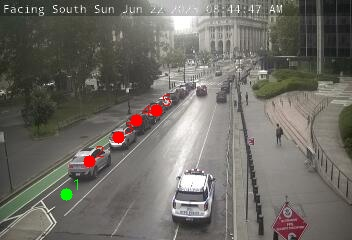
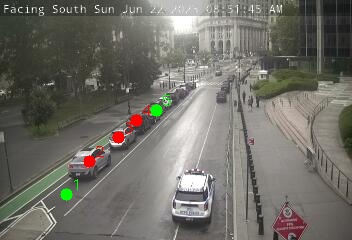
🚀 Auto-update at 2025-06-22T08:51:51.835875

diff --git a/index.html b/index.html
@@ -17,7 +17,7 @@
             <meta name="viewport" content="width=device-width,
                 initial-scale=1.0, maximum-scale=1.0, user-scalable=no" />
             <style>
-                #map_aa39bfd6224bdff8ff5511010f75d4b6 {
+                #map_8a36c5cfe758ebbfed87f9ae44ad969a {
                     position: relative;
                     width: 100.0%;
                     height: 100.0%;
@@ -54,14 +54,14 @@
 <body>
     
     
-            <div class="folium-map" id="map_aa39bfd6224bdff8ff5511010f75d4b6" ></div>
+            <div class="folium-map" id="map_8a36c5cfe758ebbfed87f9ae44ad969a" ></div>
         
 </body>
 <script>
     
     
-            var map_aa39bfd6224bdff8ff5511010f75d4b6 = L.map(
-                "map_aa39bfd6224bdff8ff5511010f75d4b6",
+            var map_8a36c5cfe758ebbfed87f9ae44ad969a = L.map(
+                "map_8a36c5cfe758ebbfed87f9ae44ad969a",
                 {
                     center: [40.71381222599225, -73.99646615844584],
                     crs: L.CRS.EPSG3857,
@@ -78,7 +78,7 @@
 
         
     
-            var tile_layer_c58c77d679bddbea0c6bbefdae7338fa = L.tileLayer(
+            var tile_layer_f72e033af5b961751c84edf02ed4f08a = L.tileLayer(
                 "https://{s}.basemaps.cartocdn.com/light_all/{z}/{x}/{y}{r}.png",
                 {
   "minZoom": 0,
@@ -95,17 +95,17 @@
             );
         
     
-            tile_layer_c58c77d679bddbea0c6bbefdae7338fa.addTo(map_aa39bfd6224bdff8ff5511010f75d4b6);
+            tile_layer_f72e033af5b961751c84edf02ed4f08a.addTo(map_8a36c5cfe758ebbfed87f9ae44ad969a);
         
     
-            var marker_00f1492c618f677b6167ac2c63ebe053 = L.marker(
+            var marker_dfc4d13918ac5cf8a006c910121473b2 = L.marker(
                 [40.715157, -74.00213],
                 {
 }
-            ).addTo(map_aa39bfd6224bdff8ff5511010f75d4b6);
+            ).addTo(map_8a36c5cfe758ebbfed87f9ae44ad969a);
         
     
-            var icon_2b89a84b1fa237d7951ce1f052b9a332 = L.AwesomeMarkers.icon(
+            var icon_68ab7a1dbc19c77a2d5a6e97e96a65d5 = L.AwesomeMarkers.icon(
                 {
   "markerColor": "red",
   "iconColor": "white",
@@ -116,34 +116,34 @@
             );
         
     
-        var popup_ff970004877f374942da932c370b66bf = L.popup({
+        var popup_a914324c5a928758c0046a8c22b340fa = L.popup({
   "maxWidth": 320,
 });
 
         
             
-                var html_8401b237b2d4b51ac5325b8f401c2632 = $(`<div id="html_8401b237b2d4b51ac5325b8f401c2632" style="width: 100.0%; height: 100.0%;">     <strong>Worth St @ Centre St</strong><br>     0 Open / 3 Spots<br>     <img src='annotated_output/07b8616e-373e-4ec9-89cc-11cad7d59fcb.jpg' width="300px">     </div>`)[0];
-                popup_ff970004877f374942da932c370b66bf.setContent(html_8401b237b2d4b51ac5325b8f401c2632);
+                var html_011282508e5567e005fadf550b0d6d68 = $(`<div id="html_011282508e5567e005fadf550b0d6d68" style="width: 100.0%; height: 100.0%;">     <strong>Worth St @ Centre St</strong><br>     0 Open / 3 Spots<br>     <img src='annotated_output/07b8616e-373e-4ec9-89cc-11cad7d59fcb.jpg' width="300px">     </div>`)[0];
+                popup_a914324c5a928758c0046a8c22b340fa.setContent(html_011282508e5567e005fadf550b0d6d68);
             
         
 
-        marker_00f1492c618f677b6167ac2c63ebe053.bindPopup(popup_ff970004877f374942da932c370b66bf)
+        marker_dfc4d13918ac5cf8a006c910121473b2.bindPopup(popup_a914324c5a928758c0046a8c22b340fa)
         ;
 
         
     
     
-                marker_00f1492c618f677b6167ac2c63ebe053.setIcon(icon_2b89a84b1fa237d7951ce1f052b9a332);
+                marker_dfc4d13918ac5cf8a006c910121473b2.setIcon(icon_68ab7a1dbc19c77a2d5a6e97e96a65d5);
             
     
-            var marker_4e7e35ece0101adf0959e3de82b8cb8c = L.marker(
+            var marker_e3879eec56036235dcdf946388ab68f9 = L.marker(
                 [40.715579, -74.003036],
                 {
 }
-            ).addTo(map_aa39bfd6224bdff8ff5511010f75d4b6);
+            ).addTo(map_8a36c5cfe758ebbfed87f9ae44ad969a);
         
     
-            var icon_f6e9d7718b302843c9d525c3f4d6cc9c = L.AwesomeMarkers.icon(
+            var icon_efbf9510024dbc79f4029362fc1d26eb = L.AwesomeMarkers.icon(
                 {
   "markerColor": "green",
   "iconColor": "white",
@@ -154,34 +154,34 @@
             );
         
     
-        var popup_0fc7849faec4cf7cc8b5ac94120193bf = L.popup({
+        var popup_f0c5106649c03372b6e76014acc6eab4 = L.popup({
   "maxWidth": 320,
 });
 
         
             
-                var html_0fdf6829a9c898608b1bfde4dcacfca7 = $(`<div id="html_0fdf6829a9c898608b1bfde4dcacfca7" style="width: 100.0%; height: 100.0%;">     <strong>Worth Street @ Lafayette Street</strong><br>     1 Open / 5 Spots<br>     <img src='annotated_output/ebec9de9-3f56-477a-a413-2e0a09b2b6ba.jpg' width="300px">     </div>`)[0];
-                popup_0fc7849faec4cf7cc8b5ac94120193bf.setContent(html_0fdf6829a9c898608b1bfde4dcacfca7);
+                var html_54787263909770473b94d4d522ac1b67 = $(`<div id="html_54787263909770473b94d4d522ac1b67" style="width: 100.0%; height: 100.0%;">     <strong>Worth Street @ Lafayette Street</strong><br>     2 Open / 5 Spots<br>     <img src='annotated_output/ebec9de9-3f56-477a-a413-2e0a09b2b6ba.jpg' width="300px">     </div>`)[0];
+                popup_f0c5106649c03372b6e76014acc6eab4.setContent(html_54787263909770473b94d4d522ac1b67);
             
         
 
-        marker_4e7e35ece0101adf0959e3de82b8cb8c.bindPopup(popup_0fc7849faec4cf7cc8b5ac94120193bf)
+        marker_e3879eec56036235dcdf946388ab68f9.bindPopup(popup_f0c5106649c03372b6e76014acc6eab4)
         ;
 
         
     
     
-                marker_4e7e35ece0101adf0959e3de82b8cb8c.setIcon(icon_f6e9d7718b302843c9d525c3f4d6cc9c);
+                marker_e3879eec56036235dcdf946388ab68f9.setIcon(icon_efbf9510024dbc79f4029362fc1d26eb);
             
     
-            var marker_c753b0b69b9b72bf432d8d02dc427f57 = L.marker(
+            var marker_d44a8bf2ef390a228bd1140545a0017c = L.marker(
                 [40.709853, -73.991746],
                 {
 }
-            ).addTo(map_aa39bfd6224bdff8ff5511010f75d4b6);
+            ).addTo(map_8a36c5cfe758ebbfed87f9ae44ad969a);
         
     
-            var icon_e8043b43e4e384595126eadc10b2b9b5 = L.AwesomeMarkers.icon(
+            var icon_5a18224827c8fa282d0c28ca622cbd9c = L.AwesomeMarkers.icon(
                 {
   "markerColor": "red",
   "iconColor": "white",
@@ -192,110 +192,34 @@
             );
         
     
-        var popup_78f9074e292e9b8ee196433315fb6506 = L.popup({
+        var popup_320f30c475ec4e6e6ff482c49165a900 = L.popup({
   "maxWidth": 320,
 });
 
         
             
-                var html_63b244a38d48c0a53fae5d879d5e5501 = $(`<div id="html_63b244a38d48c0a53fae5d879d5e5501" style="width: 100.0%; height: 100.0%;">     <strong>South Street @ Pike Street</strong><br>     0 Open / 3 Spots<br>     <img src='annotated_output/547cd268-58f9-4a84-a235-dbaa0432d79a.jpg' width="300px">     </div>`)[0];
-                popup_78f9074e292e9b8ee196433315fb6506.setContent(html_63b244a38d48c0a53fae5d879d5e5501);
+                var html_24aca3c853c259dee945e7df15bd3cae = $(`<div id="html_24aca3c853c259dee945e7df15bd3cae" style="width: 100.0%; height: 100.0%;">     <strong>South Street @ Pike Street</strong><br>     0 Open / 3 Spots<br>     <img src='annotated_output/547cd268-58f9-4a84-a235-dbaa0432d79a.jpg' width="300px">     </div>`)[0];
+                popup_320f30c475ec4e6e6ff482c49165a900.setContent(html_24aca3c853c259dee945e7df15bd3cae);
             
         
 
-        marker_c753b0b69b9b72bf432d8d02dc427f57.bindPopup(popup_78f9074e292e9b8ee196433315fb6506)
+        marker_d44a8bf2ef390a228bd1140545a0017c.bindPopup(popup_320f30c475ec4e6e6ff482c49165a900)
         ;
 
         
     
     
-                marker_c753b0b69b9b72bf432d8d02dc427f57.setIcon(icon_e8043b43e4e384595126eadc10b2b9b5);
+                marker_d44a8bf2ef390a228bd1140545a0017c.setIcon(icon_5a18224827c8fa282d0c28ca622cbd9c);
             
     
-            var marker_95d4b459ab54282a12137e6d5f3e81da = L.marker(
+            var marker_d72cc2f860e3437f94c6f2556d994fc2 = L.marker(
                 [40.716723, -73.989158],
                 {
 }
-            ).addTo(map_aa39bfd6224bdff8ff5511010f75d4b6);
+            ).addTo(map_8a36c5cfe758ebbfed87f9ae44ad969a);
         
     
-            var icon_9d74fa49a4112ff796a8a2e1cfe31cab = L.AwesomeMarkers.icon(
-                {
-  "markerColor": "red",
-  "iconColor": "white",
-  "icon": "camera",
-  "prefix": "fa",
-  "extraClasses": "fa-rotate-0",
-}
-            );
-        
-    
-        var popup_47bda005a6f90a83d1b42eb79fe4a1d1 = L.popup({
-  "maxWidth": 320,
-});
-
-        
-            
-                var html_e2df09a1cfdbd98b491e626bbbf2a72f = $(`<div id="html_e2df09a1cfdbd98b491e626bbbf2a72f" style="width: 100.0%; height: 100.0%;">     <strong>Grand St @ Essex St</strong><br>     0 Open / 2 Spots<br>     <img src='annotated_output/6fc602cf-72c5-40cc-9a42-9a844de7bc1a.jpg' width="300px">     </div>`)[0];
-                popup_47bda005a6f90a83d1b42eb79fe4a1d1.setContent(html_e2df09a1cfdbd98b491e626bbbf2a72f);
-            
-        
-
-        marker_95d4b459ab54282a12137e6d5f3e81da.bindPopup(popup_47bda005a6f90a83d1b42eb79fe4a1d1)
-        ;
-
-        
-    
-    
-                marker_95d4b459ab54282a12137e6d5f3e81da.setIcon(icon_9d74fa49a4112ff796a8a2e1cfe31cab);
-            
-    
-            var marker_c8c9c1372f623f344ada7b01aecad9cb = L.marker(
-                [40.7104751559999, -74.0002155303955],
-                {
-}
-            ).addTo(map_aa39bfd6224bdff8ff5511010f75d4b6);
-        
-    
-            var icon_25f3ccd91fc58f4e31ead7f002471993 = L.AwesomeMarkers.icon(
-                {
-  "markerColor": "red",
-  "iconColor": "white",
-  "icon": "camera",
-  "prefix": "fa",
-  "extraClasses": "fa-rotate-0",
-}
-            );
-        
-    
-        var popup_d6b06a8e692dd732a36d032efb8b299e = L.popup({
-  "maxWidth": 320,
-});
-
-        
-            
-                var html_40533574493dbb44ae5bc2914469ce7f = $(`<div id="html_40533574493dbb44ae5bc2914469ce7f" style="width: 100.0%; height: 100.0%;">     <strong>Pearl Street @ St. James Pl</strong><br>     0 Open / 7 Spots<br>     <img src='annotated_output/7ae8f58a-84e9-4c9f-9e90-daa2dc548f20.jpg' width="300px">     </div>`)[0];
-                popup_d6b06a8e692dd732a36d032efb8b299e.setContent(html_40533574493dbb44ae5bc2914469ce7f);
-            
-        
-
-        marker_c8c9c1372f623f344ada7b01aecad9cb.bindPopup(popup_d6b06a8e692dd732a36d032efb8b299e)
-        ;
-
-        
-    
-    
-                marker_c8c9c1372f623f344ada7b01aecad9cb.setIcon(icon_25f3ccd91fc58f4e31ead7f002471993);
-            
-    
-            var marker_2217322736faf723d740041187e05d3b = L.marker(
-                [40.7150861999536, -73.9925114202795],
-                {
-}
-            ).addTo(map_aa39bfd6224bdff8ff5511010f75d4b6);
-        
-    
-            var icon_2d704dd93497bf889ed284649ab96b6a = L.AwesomeMarkers.icon(
+            var icon_0eb77dec5b773ba4072ad225dbf27397 = L.AwesomeMarkers.icon(
                 {
   "markerColor": "green",
   "iconColor": "white",
@@ -306,43 +230,100 @@
             );
         
     
-        var popup_ab39c283cc8a0583c4e719b39eb39ad8 = L.popup({
+        var popup_f5b2ce20d7af264205a3bb1ad0e8ceb9 = L.popup({
   "maxWidth": 320,
 });
 
         
             
-                var html_52f8a9742ef077c7201b87ca0086acc5 = $(`<div id="html_52f8a9742ef077c7201b87ca0086acc5" style="width: 100.0%; height: 100.0%;">     <strong>Canal Street @ Allen Street</strong><br>     1 Open / 3 Spots<br>     <img src='annotated_output/ed12f2da-9f65-44f0-a162-123c412716c6.jpg' width="300px">     </div>`)[0];
-                popup_ab39c283cc8a0583c4e719b39eb39ad8.setContent(html_52f8a9742ef077c7201b87ca0086acc5);
+                var html_ad2b156bba1fb9b74df95c1090174284 = $(`<div id="html_ad2b156bba1fb9b74df95c1090174284" style="width: 100.0%; height: 100.0%;">     <strong>Grand St @ Essex St</strong><br>     2 Open / 2 Spots<br>     <img src='annotated_output/6fc602cf-72c5-40cc-9a42-9a844de7bc1a.jpg' width="300px">     </div>`)[0];
+                popup_f5b2ce20d7af264205a3bb1ad0e8ceb9.setContent(html_ad2b156bba1fb9b74df95c1090174284);
             
         
 
-        marker_2217322736faf723d740041187e05d3b.bindPopup(popup_ab39c283cc8a0583c4e719b39eb39ad8)
+        marker_d72cc2f860e3437f94c6f2556d994fc2.bindPopup(popup_f5b2ce20d7af264205a3bb1ad0e8ceb9)
         ;
 
         
     
     
-                marker_2217322736faf723d740041187e05d3b.setIcon(icon_2d704dd93497bf889ed284649ab96b6a);
-            var church_marker = L.marker(
-    [40.716970062971434, -73.99693923349486]
-).addTo(map_aa39bfd6224bdff8ff5511010f75d4b6);
-
-var church_icon = L.AwesomeMarkers.icon({
-    markerColor: "purple",  // make it stand out
-    iconColor: "white",
-    icon: "place-of-worship",  // icon for a church
-    prefix: "fa"
+                marker_d72cc2f860e3437f94c6f2556d994fc2.setIcon(icon_0eb77dec5b773ba4072ad225dbf27397);
+            
+    
+            var marker_479a1448cb52e5d09c9e8f91dc0981ef = L.marker(
+                [40.7104751559999, -74.0002155303955],
+                {
+}
+            ).addTo(map_8a36c5cfe758ebbfed87f9ae44ad969a);
+        
+    
+            var icon_3d345c648c288b061c46e8a301bb4efc = L.AwesomeMarkers.icon(
+                {
+  "markerColor": "red",
+  "iconColor": "white",
+  "icon": "camera",
+  "prefix": "fa",
+  "extraClasses": "fa-rotate-0",
+}
+            );
+        
+    
+        var popup_40ed5c5f1ed79eb757cb53af5b05ef90 = L.popup({
+  "maxWidth": 320,
 });
 
-var church_popup = L.popup({
-    maxWidth: 320
-}).setContent(`
-    <strong>耶穌基督後期聖徒教會</strong><br>
-    41 Elizabeth St, New York, NY 10013
-`);
+        
+            
+                var html_479839d7fa8bf1a33e3921cc1e447972 = $(`<div id="html_479839d7fa8bf1a33e3921cc1e447972" style="width: 100.0%; height: 100.0%;">     <strong>Pearl Street @ St. James Pl</strong><br>     0 Open / 7 Spots<br>     <img src='annotated_output/7ae8f58a-84e9-4c9f-9e90-daa2dc548f20.jpg' width="300px">     </div>`)[0];
+                popup_40ed5c5f1ed79eb757cb53af5b05ef90.setContent(html_479839d7fa8bf1a33e3921cc1e447972);
+            
+        
 
-church_marker.setIcon(church_icon).bindPopup(church_popup);
+        marker_479a1448cb52e5d09c9e8f91dc0981ef.bindPopup(popup_40ed5c5f1ed79eb757cb53af5b05ef90)
+        ;
 
+        
+    
+    
+                marker_479a1448cb52e5d09c9e8f91dc0981ef.setIcon(icon_3d345c648c288b061c46e8a301bb4efc);
+            
+    
+            var marker_d80e5f9f16e8a3db7ee15ef32716c710 = L.marker(
+                [40.7150861999536, -73.9925114202795],
+                {
+}
+            ).addTo(map_8a36c5cfe758ebbfed87f9ae44ad969a);
+        
+    
+            var icon_9457f6243baa5ddb65fc7a6ff87541e7 = L.AwesomeMarkers.icon(
+                {
+  "markerColor": "green",
+  "iconColor": "white",
+  "icon": "camera",
+  "prefix": "fa",
+  "extraClasses": "fa-rotate-0",
+}
+            );
+        
+    
+        var popup_c021a1a51694829c7adfd168b38d9881 = L.popup({
+  "maxWidth": 320,
+});
+
+        
+            
+                var html_8581edcf165c9f61fff4836b509e9ed3 = $(`<div id="html_8581edcf165c9f61fff4836b509e9ed3" style="width: 100.0%; height: 100.0%;">     <strong>Canal Street @ Allen Street</strong><br>     2 Open / 3 Spots<br>     <img src='annotated_output/ed12f2da-9f65-44f0-a162-123c412716c6.jpg' width="300px">     </div>`)[0];
+                popup_c021a1a51694829c7adfd168b38d9881.setContent(html_8581edcf165c9f61fff4836b509e9ed3);
+            
+        
+
+        marker_d80e5f9f16e8a3db7ee15ef32716c710.bindPopup(popup_c021a1a51694829c7adfd168b38d9881)
+        ;
+
+        
+    
+    
+                marker_d80e5f9f16e8a3db7ee15ef32716c710.setIcon(icon_9457f6243baa5ddb65fc7a6ff87541e7);
+            
 </script>
 </html>
